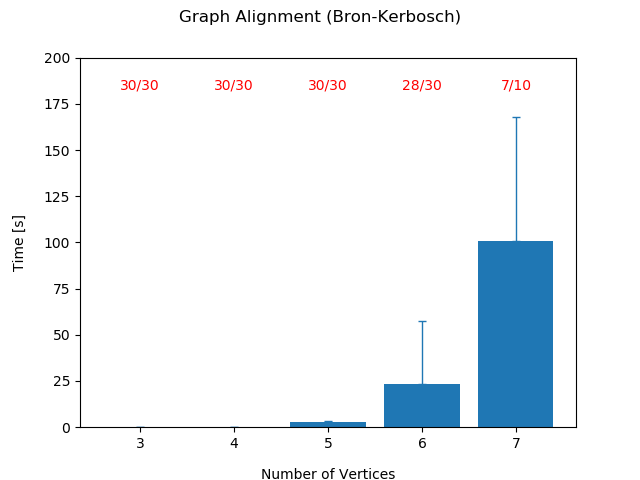
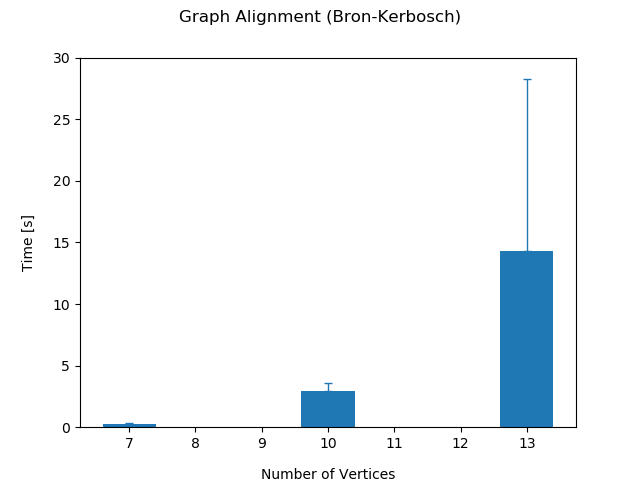
benchmakring2.0

diff --git a/benchmarking_representation.py b/benchmarking_representation.py
@@ -44,15 +44,6 @@ def build_bar_plot_ga(x, y, e, n, title, ylim, anno_height, ylabel):
     plt.ylabel(ylabel, labelpad=12)
     axes = plt.gca()
     axes.set_ylim([0, ylim])
-    i = 0
-    for a in x:
-        label = str(n[i])
-        if i < 4:
-            label += "/30"
-        else:
-            label += "/10"
-        i += 1
-        plt.annotate(label, (a, anno_height), textcoords="offset points", xytext=(0, 10), ha='center', color="r")
     plt.suptitle(title)
     return fig
 
@@ -92,27 +83,23 @@ def data_for_plot_from_stats_bk(list_of_stats):
 if __name__ == '__main__':
 
     # Build plot for graph alignment using bron-kerbosch
-    stat3 = stats_from_array_data_ga("Benchmarking\GraphAlignment\\benchmark_ga_bk_3_0.5.txt", 3)
-    stat4 = stats_from_array_data_ga("Benchmarking\GraphAlignment\\benchmark_ga_bk_4_0.5.txt", 4)
-    stat5 = stats_from_array_data_ga("Benchmarking\GraphAlignment\\benchmark_ga_bk_5_0.5.txt", 5)
-    stat6 = stats_from_array_data_ga("Benchmarking\GraphAlignment\\benchmark_ga_bk_6_0.5.txt", 6)
-    stat7 = stats_from_array_data_ga("Benchmarking\GraphAlignment\\benchmark_ga_bk_7_0.5.txt", 7)
-    x, y, e, n, failed = data_for_plot_from_stats_ga([stat3, stat4, stat5, stat6, stat7])
-    fig = build_bar_plot_ga(x, y, e, n,  "Graph Alignment (Bron-Kerbosch)", 200, 175, "Time [s]")
+    stat3 = stats_from_array_data_ga("Benchmarking\GraphAlignment_zweiteRunde\\benchmark_ga_bk_10.txt", 10)
+    stat4 = stats_from_array_data_ga("Benchmarking\GraphAlignment_zweiteRunde\\benchmark_ga_bk_13.txt", 13)
+    stat7 = stats_from_array_data_ga("Benchmarking\GraphAlignment_zweiteRunde\\benchmark_ga_bk_7.txt", 7)
+    x, y, e, n, failed = data_for_plot_from_stats_ga([stat3, stat4, stat7])
+    fig = build_bar_plot_ga(x, y, e, n,  "Graph Alignment (Bron-Kerbosch)", 30, 25, "Time [s]")
     plt.savefig("GraphAlignment_BronKerbosch")
     plt.show()
     plt.close(fig)
 
     # Build plot for graph alignment using cordella
-    stat3 = stats_from_array_data_ga("Benchmarking\GraphAlignment\\benchmark_ga_mb_3_0.5.txt", 3)
-    stat4 = stats_from_array_data_ga("Benchmarking\GraphAlignment\\benchmark_ga_mb_4_0.5.txt", 4)
-    stat5 = stats_from_array_data_ga("Benchmarking\GraphAlignment\\benchmark_ga_mb_5_0.5.txt", 5)
-    stat6 = stats_from_array_data_ga("Benchmarking\GraphAlignment\\benchmark_ga_mb_6_0.5.txt", 6)
-    stat7 = stats_from_array_data_ga("Benchmarking\GraphAlignment\\benchmark_ga_mb_7_0.5.txt", 7)
-    x, y, e, n, failed = data_for_plot_from_stats_ga([stat3, stat4, stat5, stat6, stat7])
+    stat3 = stats_from_array_data_ga("Benchmarking\GraphAlignment_zweiteRunde\\benchmark_ga_mb_10.txt", 10)
+    stat4 = stats_from_array_data_ga("Benchmarking\GraphAlignment_zweiteRunde\\benchmark_ga_mb_13.txt", 13)
+    stat7 = stats_from_array_data_ga("Benchmarking\GraphAlignment_zweiteRunde\\benchmark_ga_mb_7.txt", 7)
+    x, y, e, n, failed = data_for_plot_from_stats_ga([stat3, stat4, stat7])
     y = [i*1000 for i in y]
     e = [i*1000 for i in e]
-    fig = build_bar_plot_ga(x, y, e, n, "Graph Alignment (VF2)", 3.5, 3, "Time [ms]")
+    fig = build_bar_plot_ga(x, y, e, n, "Graph Alignment (VF2)", 250, 220, "Time [ms]")
     plt.savefig("GraphAlignment_VF2")
     plt.show()
     plt.close()

diff --git a/Graph.py b/Graph.py
@@ -526,7 +526,7 @@ def retrieve_fusion_graph(matching_graph, input_graphs):
         lov += input_graph.get_list_of_vertices()
         loe += input_graph.get_list_of_edges()
     for i in range(len(lov)):
-        lov[i].set_id(i)
+        lov[i].set_id(i + 1)
     for vertex in matching_graph.get_list_of_vertices():
         map = vertex.get_mapping()
         combis = itertools.combinations(map.values(), 2)
@@ -536,7 +536,7 @@ def retrieve_fusion_graph(matching_graph, input_graphs):
             edge = EDGE(0, [combi[0], combi[1]], "$matching$")
             loe.append(edge)
     for i in range(len(loe)):
-        loe[i].set_id(i)
+        loe[i].set_id(i + 1)
     name = ''
     for input_graph in input_graphs:
         name += input_graph.get_name() + "&&"
